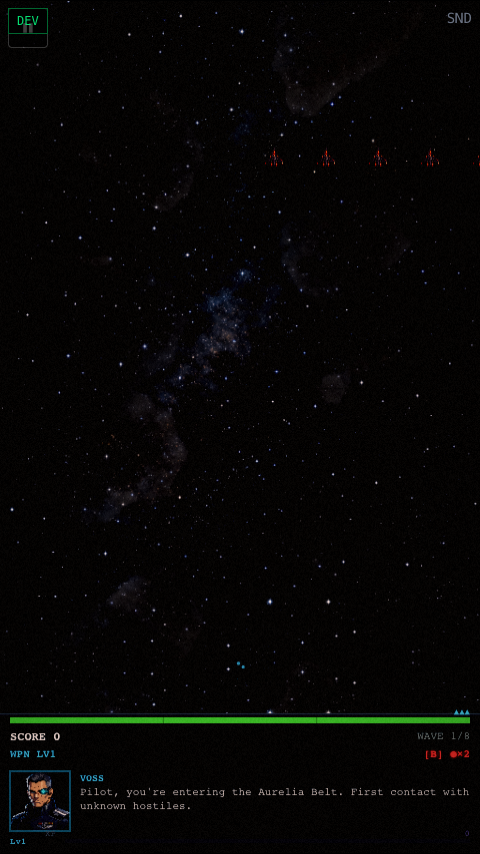
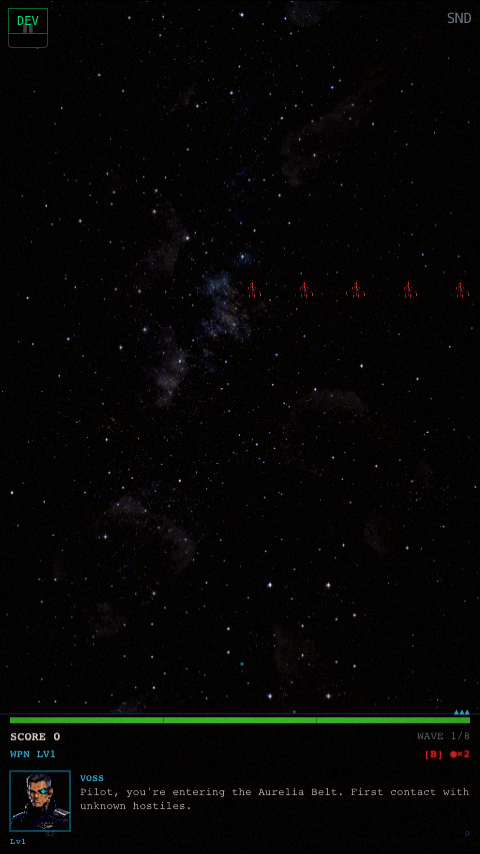
docs(assets): correct baseline wave captures

diff --git a/docs/assets/prompts/shooter/02-m2-second-tranche.md b/docs/assets/prompts/shooter/02-m2-second-tranche.md
@@ -175,9 +175,9 @@ Playwright session `m2b` at `window.innerWidth=480`,
 
 | Evidence | Level / state | Capture timing and observed contract |
 |---|---|---|
-| `gameplay/before-cloaker-w5-3-visible.png` | W5-3 Phantom Fleet, HUD Wave 1 | DevPanel briefing skip, opening nine-Cloaker scatter after the first 120-frame cloak transition; visible sprites, unchanged `tech-drone` tint |
-| `gameplay/before-cloaker-w5-3-ghosted.png` | W5-3 Phantom Fleet, HUD Wave 1 | Same opening wave after the next cloak transition; start-hidden mechanic observed at the unchanged 15% renderer alpha |
-| `gameplay/before-scout-w1-1.png` | W1-1 First Contact, HUD Wave 1 | About 3.4 seconds after briefing skip; all five Scouts visible in the authored line under unchanged `swarm` tint |
+| `gameplay/before-cloaker-w5-3-visible.png` | W5-3 Phantom Fleet, HUD Wave 1/11 | About 4.2 seconds after DevPanel briefing skip; all nine opening-wave Cloakers are distinct and fully inside the playfield after the first 120-frame cloak transition, with unchanged `tech-drone` tint |
+| `gameplay/before-cloaker-w5-3-ghosted.png` | W5-3 Phantom Fleet, HUD Wave 1/11 | About 3.7 seconds after the same briefing skip and before the first cloak transition; the same pure nine-Cloaker opening scatter is in its unchanged start-hidden 15%-alpha state |
+| `gameplay/before-scout-w1-1.png` | W1-1 First Contact, HUD Wave 1/8 | About 4.3 seconds after briefing skip; all five Scouts are fully and readably inside the playfield in the authored line under unchanged `swarm` tint |
 | `gameplay/before-wraith-w4-2.png` | W4-2 The Kepler Graveyard, HUD Wave 1 | About 3.4 seconds after briefing skip; four-Wraith V visible under unchanged `elemental-cinder` tint |
 | `gameplay/before-echo-w6-2-visible.png` | W6-2 Distortion Field, HUD Wave 1 | Opening six-Echo scatter after the first 90-frame phase transition; visible sprites under unchanged `tech-drone` tint |
 | `gameplay/before-echo-w6-2-ghosted.png` | W6-2 Distortion Field, HUD Wave 1 | About 3.2 seconds after briefing skip during the start-hidden interval; unchanged 15% alpha makes the baseline silhouettes nearly disappear against the bright field |
@@ -192,4 +192,5 @@ is broad/front-facing rather than edge-on or visibly squashed.
 The complete browser session reported zero console errors. It emitted only the
 same two unchanged Next.js font-preload warnings for
 `fc727f226c737876-s.p.woff2` and `806de4d605d3ad01-s.p.woff2`; there were no new
-gameplay, asset, or renderer warnings.
+gameplay, asset, or renderer warnings. The focused correction capture session
+`m2c` separately reported zero console errors and zero warnings.